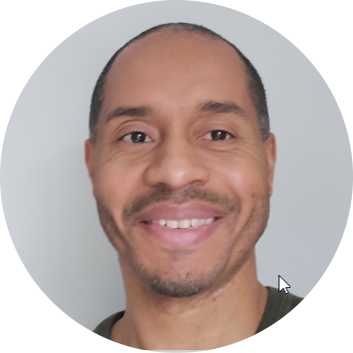
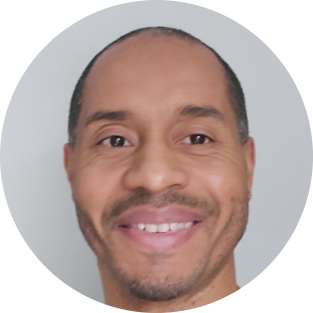
index.html midden-container + navbar complete. Added images. Styles.css complete

Changed region(s): [[0.2013, 0.0575, 0.8626, 1.0]]

diff --git a/index.html b/index.html
@@ -12,41 +12,51 @@
 </head>
 
 <body>
-  <div class="top-container">
+  <div id="home" class="top-container">
+    <header>
+  <nav>
+    <ul>
+      <li><a class="menu" href='#job'>Job</a></li>
+      <li><a class="menu"  href='#hobby'>Hobby</a></li>
+      <li><a class="menu"  href='#city'>City</a></li>
+    </ul>
+  </nav>
+</header>
     <h1>I am Incha</h1>
     <h2>A programmer in beeing!</h2>
-    <img src="images/robot.png" alt="picture of a cartoon robot">
+    <img src="images/top_img.png" alt="picture of a cartoon robot">
   </div>
   <div class="midden-container">
-    <div class="profile">
+    <div class="profile_row">
       <img class="img_me" src="images/Me.png" alt="Picture of me">
       <h2>Hello</h2>
-      <p>Lorem ipsum dolor sit amet, consectetur adipisicing elit, sed do eiusmod tempor incididunt ut labore et dolore magna aliqua. Ut enim ad minim veniam.</p>
+      <p class="intro">My name is pronounced 'Incha'. It's like an English inch with an 'a' at the end. </p>
       <hr>
     </div>
+    <h2>Who am I?</h2>
     <div class="me">
-      <h2>Hello</h2>
-      <div class="previous_job">
-        <img class="img_job" src="images/Me.png" alt="Picture of me">
+
+      <div id="job" class="me_row">
+        <img class="img_job" src="images/gears-crop.png" alt="Picture of my previous work">
         <h3>My previous job</h3>
-        <p>Lorem ipsum dolor sit amet, consectetur adipisicing elit, sed do eiusmod tempor incididunt ut labore et dolore magna aliqua. Ut enim ad minim veniam.</p>
-        <hr>
+        <p class="p_row">For the last 10 years I was working in the IT helpdesk of a small non IT company helping people with their computer problem.</p>
+        <hr class="hr_row">
       </div>
-      <div class="hobbies">
-        <img class="img_hobbies" src="images/Me.png" alt="Picture of me">
+      <div id="hobby" class="me_row">
+        <img class="img_hobbies" src="images/books-crop.png" alt="Picture of my hobbies">
         <h3>My hobbies</h3>
-        <p>Lorem ipsum dolor sit amet, consectetur adipisicing elit, sed do eiusmod tempor incididunt ut labore et dolore magna aliqua. Ut enim ad minim veniam.</p>
-        <hr>
+        <p class="p_row">In my free time I like reading books, walking in the wood or at the sea and training to maintain my shape.</p>
+        <hr class="hr_row">
       </div>
-      <div class="house">
-        <img class="img_house" src="images/Me.png" alt="Picture of me">
+      <div id="city" class="me_row">
+        <img class="img_house" src="images/sea-crop.png" alt="Picture of where I live">
         <h3>Where I live</h3>
-        <p>Lorem ipsum dolor sit amet, consectetur adipisicing elit, sed do eiusmod tempor incididunt ut labore et dolore magna aliqua. Ut enim ad minim veniam.</p>
+        <p class="p_row">A live at the seaside, in a small city near to Oostende. It's a wonderful place neat to nature. I enjoy living there.</p>
       </div>
 
     </div>
     <div class="bottom-container">
-      <p>&copy 2023 Incha N'Goy @ Switchfully</p>
+      <p>&copy 2023 Incha N'Goy @ Java_2023_Feb</p>
     </div>
 </body>
 

diff --git a/styles.css b/styles.css
@@ -11,8 +11,14 @@ h1 {
   font-size: 5.625em;
 }
 
-h2,h3 {
+h2 {
   font-family: 'Montserrat', sans-serif;
+  color: #66BFBF;
+}
+
+h3 {
+  font-family: 'Montserrat', sans-serif;
+  color: #11999E;
 }
 
 hr {
@@ -26,8 +32,86 @@ img {
   padding: 15px 0 15px;
 }
 
+ul {
+  list-style-type: none;
+  padding: 0;
+  margin: 0;
+  position: absolute;
+  right:10px;
+
+}
+
+li {
+  display: inline;
+  padding: 0 10px;
+
+
+}
+
 .top-container {
   background-color: #EAFDFC;
+  position: relative;
+}
+
+.menu {
+  font-size: 20px;
+  color: #66BFBF;
+  text-decoration: none;
+}
+
+.menu:hover {
+  color: #287D7D;
+}
+
+.midden-container {
+  margin: 100px auto 0;
+
+}
+
+.me {
+  text-align: left;
+padding-bottom: 50px;
+}
+
+.img_me {
+  width: 10%;
+}
+
+.intro {
+  width: 30%;
+  margin: 0 auto;
+}
+
+.me_row {
+  width: 50%;
+  margin: 100px auto;
+
+}
+
+.hr_row {
+  clear: both;
+}
+
+.img_job {
+  float: left;
+  width: 20%;
+  margin-right: 30px;
+}
+
+.img_hobbies {
+  float: right;
+  width: 20%;
+  margin-left: 30px;
+}
+
+.img_house {
+  float: left;
+  width: 20%;
+  margin-right: 30px;
+}
+
+.p_row {
+  line-height: 2;
 }
 
 .bottom-container {
